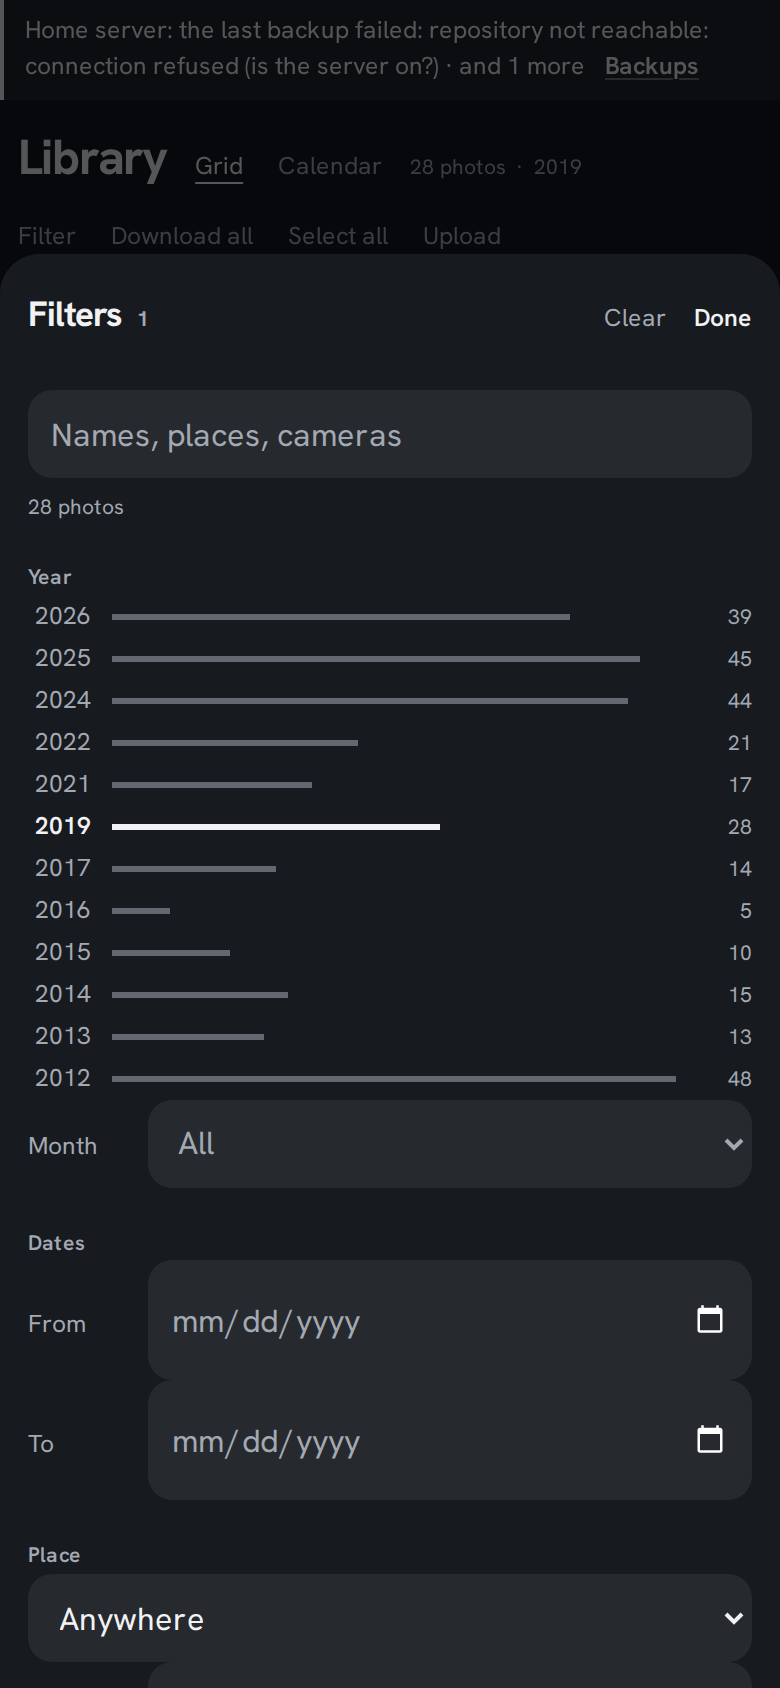
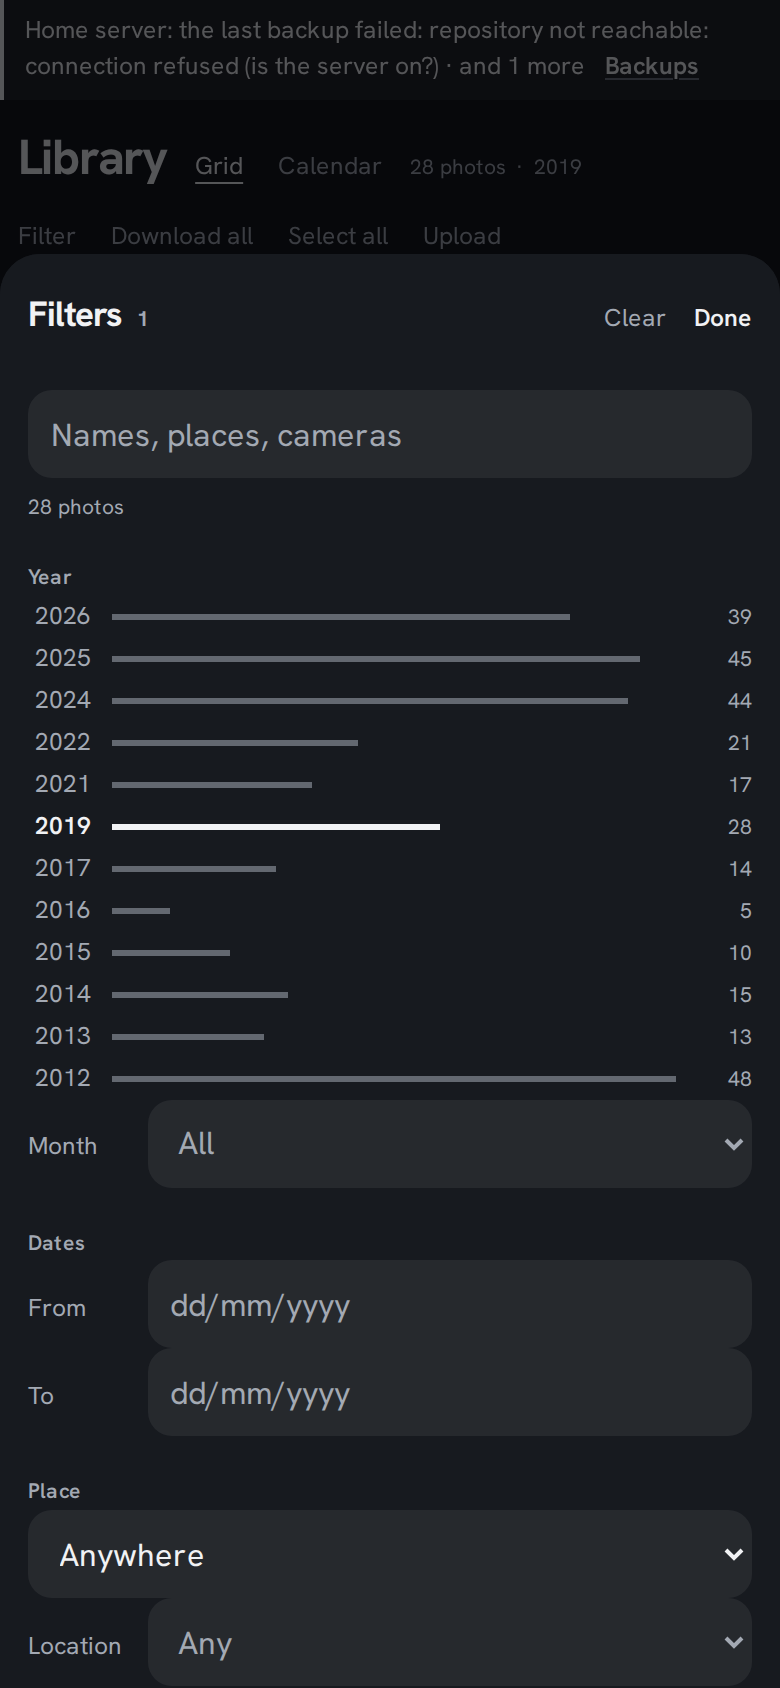
docs: the date field, with screenshots of Fix date and the filters (#52)

diff --git a/web/e2e/screenshots.spec.ts b/web/e2e/screenshots.spec.ts
@@ -108,6 +108,11 @@ test('every screen', async ({ page }, info) => {
 	await page.getByLabel('Direction').selectOption({ label: 'earlier' });
 	await page.getByRole('spinbutton').nth(1).fill('1');
 	await shot(page, '17-fix-date', p);
+	// A date copied from an American page: tidied, and the dialog says how it read it.
+	await page.getByLabel('Set exactly').check();
+	await page.getByLabel('Date and time').fill('7/25/2019 6:30 PM');
+	await page.getByLabel('Date and time').blur();
+	await shot(page, '17b-fix-date-exact', p);
 	await page.getByRole('button', { name: 'Cancel' }).click();
 	await page.getByRole('button', { name: 'Close' }).click();
 

diff --git a/docs/FEATURES.md b/docs/FEATURES.md
@@ -56,14 +56,14 @@ separate, explicit "purge from library copy" that never touches the source.
 | 2.9 | Auto-tags from embeddings against a fixed vocabulary (beach, snow, food, document, screenshot…) | Should | M3 ✅ (API) |
 | 2.10 | Screenshot / document / meme detection → filtered out of "memories" by default | Should | M3 |
 | 2.11 | Captions from local vision LLM (via AI socket) | Could | M5 |
-| 2.12 | **Fix dates**: set or shift the date of one or many photos (e.g. Facebook downloads whose only date is the download day); the photo shows "date guessed from file" until fixed; corrections are kept in the library and exported with XMP (11.2) | Should | M2 ✅ (API) |
+| 2.12 | **Fix dates**: set or shift the date of one or many photos (e.g. Facebook downloads whose only date is the download day); the photo shows "date guessed from file" until fixed; corrections are kept in the library and exported with XMP (11.2). The exact date is a text field that takes a date or time pasted in any common format (the app's own, ISO, camera, file name, English or French month names, month-first, AM/PM) and always shows it day first on the 24-hour clock | Should | M2 ✅ (API) |
 
 ## 3. Find (organise, filter, search)
 
 | # | Feature | Prio | Milestone |
 |---|---|---|---|
 | 3.1 | Timeline (newest first), grouped by day/month/year, fast scroll with the time ruler | Must | M2 |
-| 3.2 | Facet filters: date range, place, camera, people, tags, favourite, media kind, source — *API: date, place, camera, favourite, source, guessed date, location; people/tags in M3* | Must | M2 |
+| 3.2 | Facet filters: date range (From / To take a pasted date like Fix date and show it day first), place, camera, people, tags, favourite, media kind, source — *API: date, place, camera, favourite, source, guessed date, location; people/tags in M3* | Must | M2 |
 | 3.3 | Favourites (per user) and hide (per user) | Must | M2 ✅ (API) |
 | 3.4 | Keyword search over places, tags, names, captions — *API: file names, places, camera, album titles; tags/names/captions in M3* | Must | M2 |
 | 3.5 | Natural-language search ("kids in the snow at grandma's") via embeddings | Should | M3 ✅ (API) |

diff --git a/docs/wiring/web.md b/docs/wiring/web.md
@@ -129,6 +129,18 @@ Mock-only routes live under `/__mock/` and are never called by the app.
   bar on a laptop and a floating dock on a phone. The account menu holds To review, Trash,
   Settings, Admin (admins) and Sign out. The selection pill shows Add to album, Download,
   Fix date and Move to trash (the first three on a phone) and puts the rest under “More”.
+- **Date fields** (`DateField`, the reader in `lib/dates.ts`): Fix date's “Set exactly” and
+  the filters' From / To are one text field, never the browser's own date control, so the
+  date is shown day first on the 24-hour clock whatever the browser's language
+  (`04/07/2019 18:30:05`; a filter shows the day only). `readDateText` reads what is pasted or
+  typed: the app's own displays, ISO, camera and file-name styles, numbers day first, month
+  names in English and French, AM/PM. A readable paste replaces the whole field at once;
+  typed text is read at every keystroke (the before → after preview follows) and tidied on
+  Enter or on leaving the field. A day alone keeps the field's time and a time alone its day.
+  Numbers that can only be month first (`7/25/2019`) are converted and a quiet line says so.
+  Text that is not a date, or names a day or time that does not exist, gives no value: a
+  sentence under the field says so, “Change date” stays disabled and the filter is left as
+  it was. The API still gets `YYYY-MM-DDTHH:MM:SS`, and the URL `from` / `to` as `YYYY-MM-DD`.
 - **Downloads**: the dialog pre-flights with the estimate (an expired session goes to sign-in,
   a refusal is a sentence), then posts into a fresh hidden frame; if the frame loads the
   server's JSON error instead of a file, the status line says so.

diff --git a/docs/DESIGN_PRINCIPLES.md b/docs/DESIGN_PRINCIPLES.md
@@ -151,7 +151,9 @@ not a token):
   a dialog or form exists for — is filled with `--ink` (never the accent), 600 weight. Pressed
   toggles (Info, Arrange, crop ratio, Grid/Calendar) are underlined, not filled.
 - **Fields** are a soft box (`--tint` fill, `--r-1`) that takes an accent border on focus.
-  Labels sit above (`.field`), 12 px. Selects keep the native chevron.
+  Labels sit above (`.field`), 12 px. Selects keep the native chevron. A date is typed or
+  pasted into a text field (`DateField`) that shows it day first on the 24-hour clock; the
+  browser's own date control is not used, because it follows the browser's language.
 - **Checkboxes and radios** are drawn (1.5 px `--ink-2` outline, `--check-radius` corners;
   checked = ink fill with a `--bg` check / inner ring), so both themes match. `.choice` lays an
   option out in a row.
